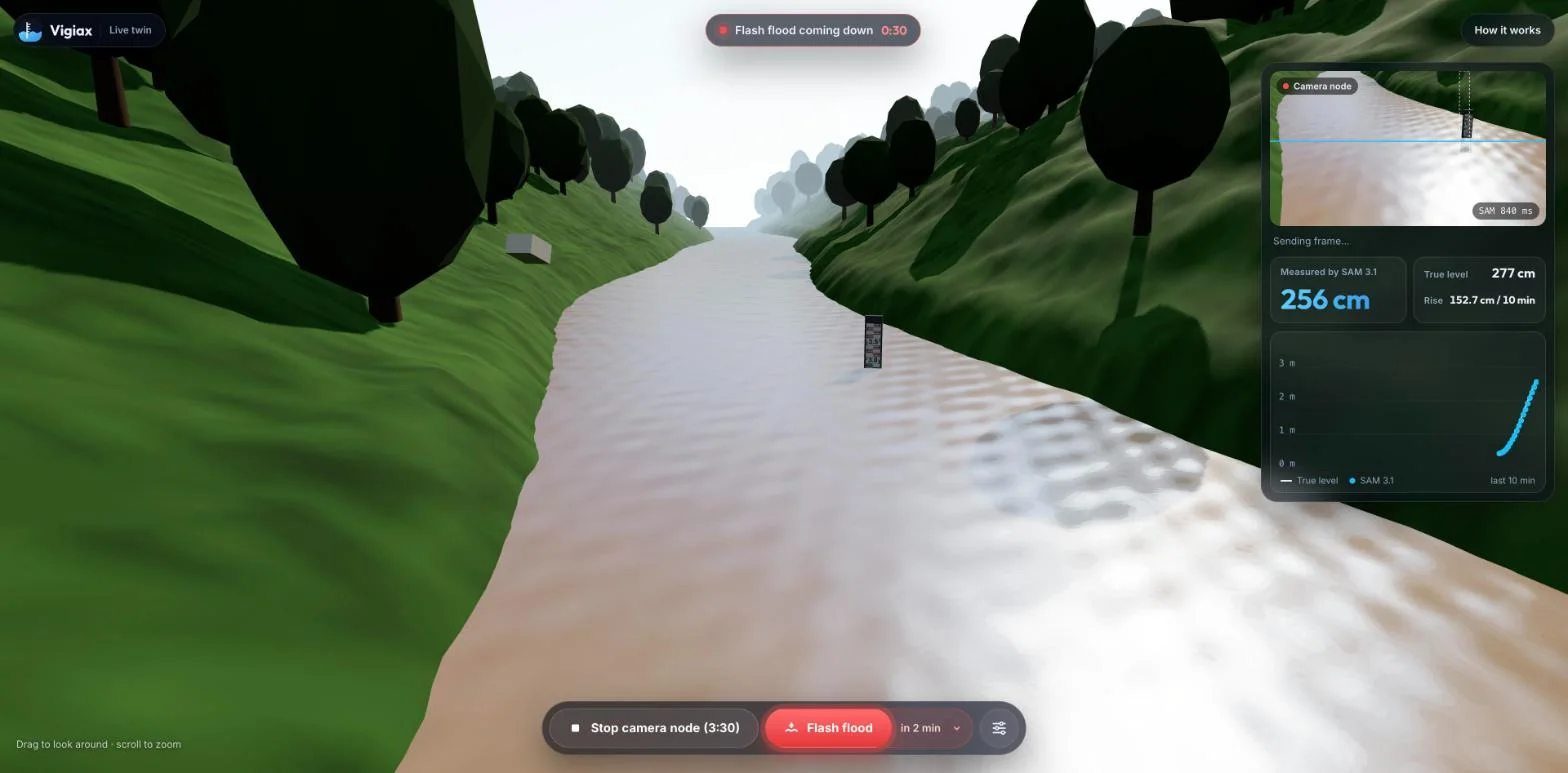
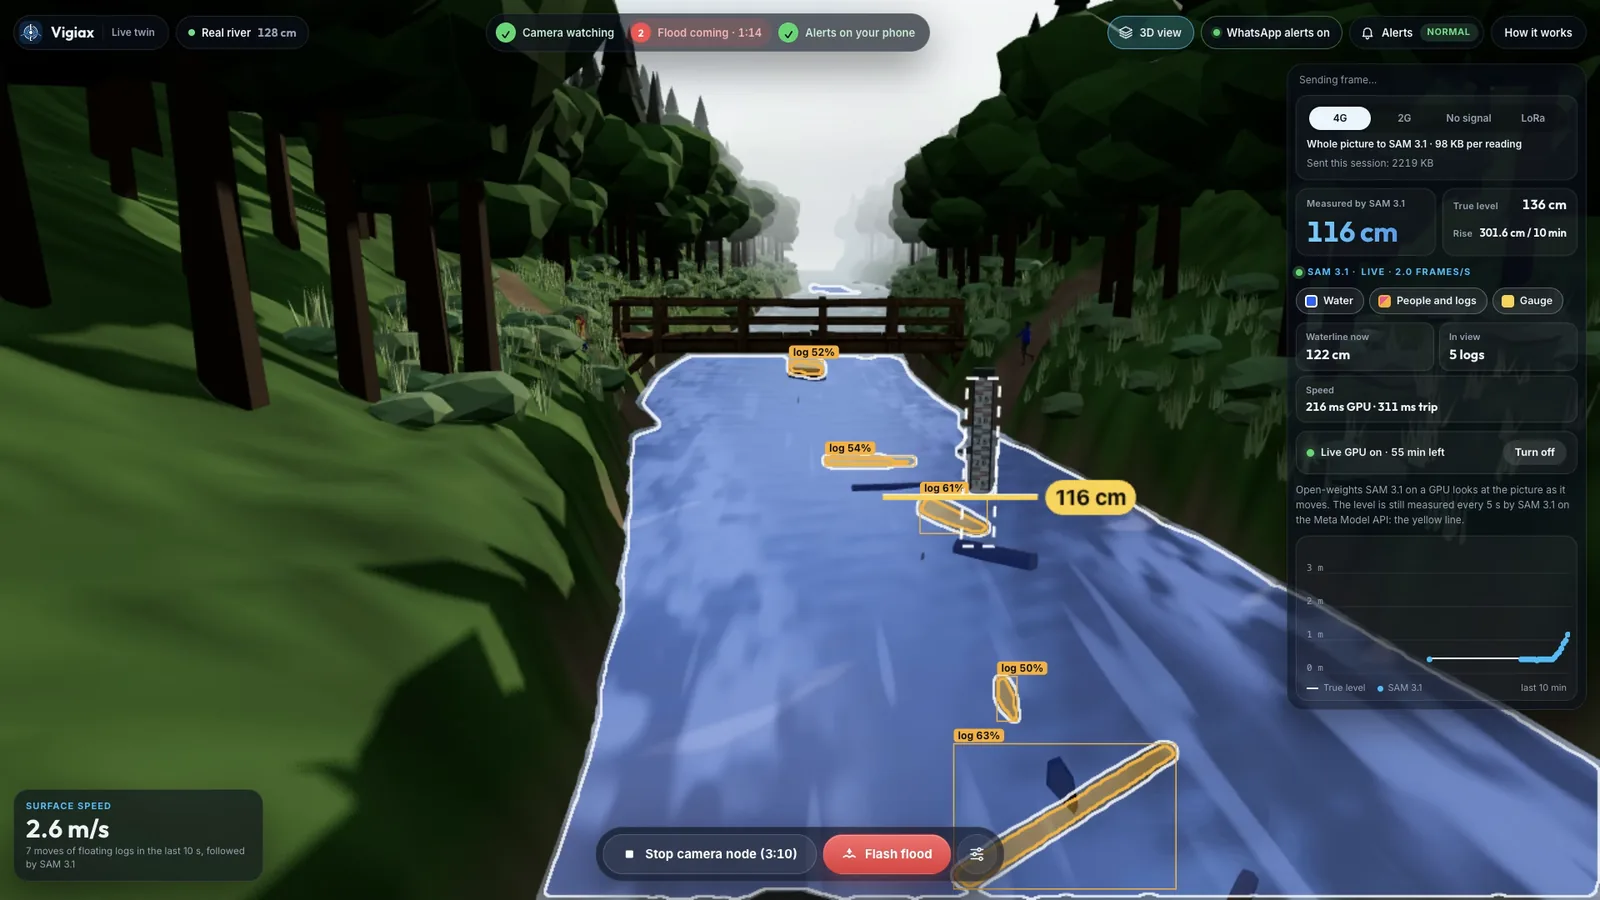
Show the new valley in the share card, with the alert as it is sent

diff --git a/web/scripts/og-card.html b/web/scripts/og-card.html
@@ -45,6 +45,6 @@
     </div>
     <div class="url">vigiax.bukivo.com</div>
     <div class="shot"><img src="../public/img/twin-hero.webp" alt="" /></div>
-    <div class="alert"><strong>⚠ Vigiax · La Honda Creek</strong>The creek rose <b>25 cm in 10 min</b>. Move away from the bank now.</div>
+    <div class="alert"><strong>⚠ Vigiax · EVACUATE NOW</strong>The water is rising <b>37 cm a minute</b> and is at 1.3 m. Go to high ground now.</div>
   </body>
 </html>
